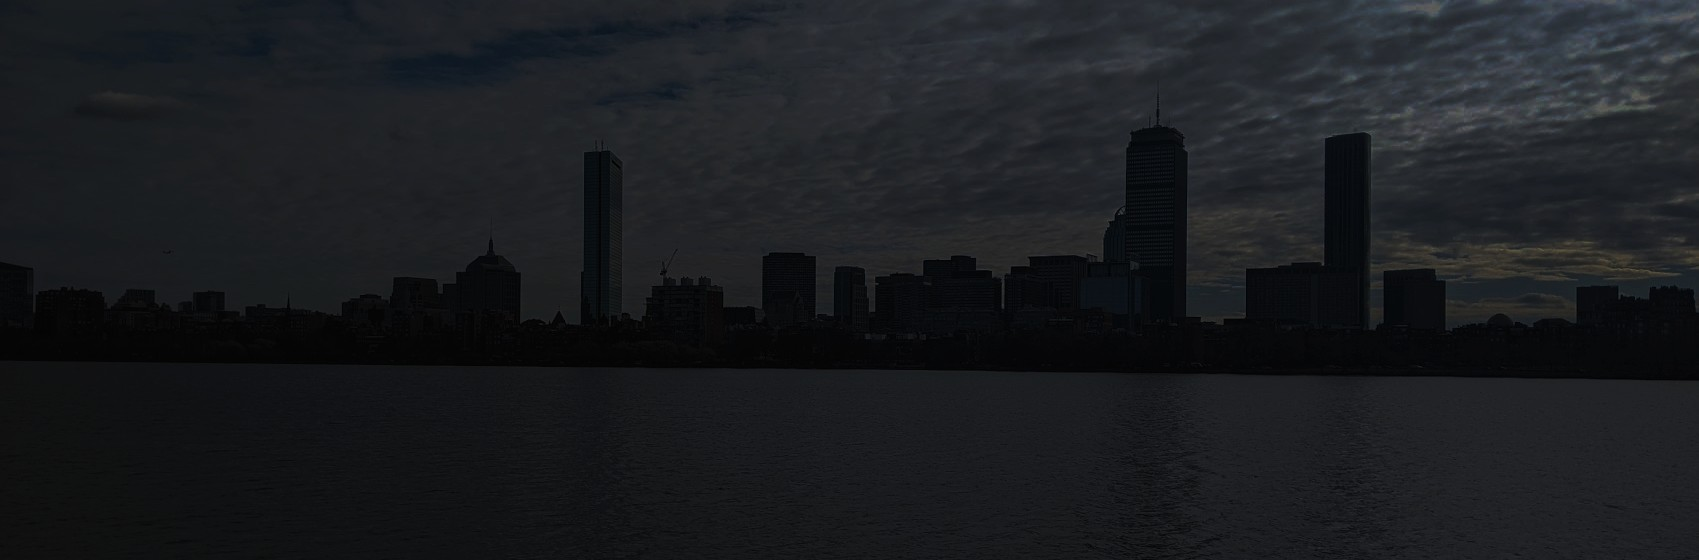
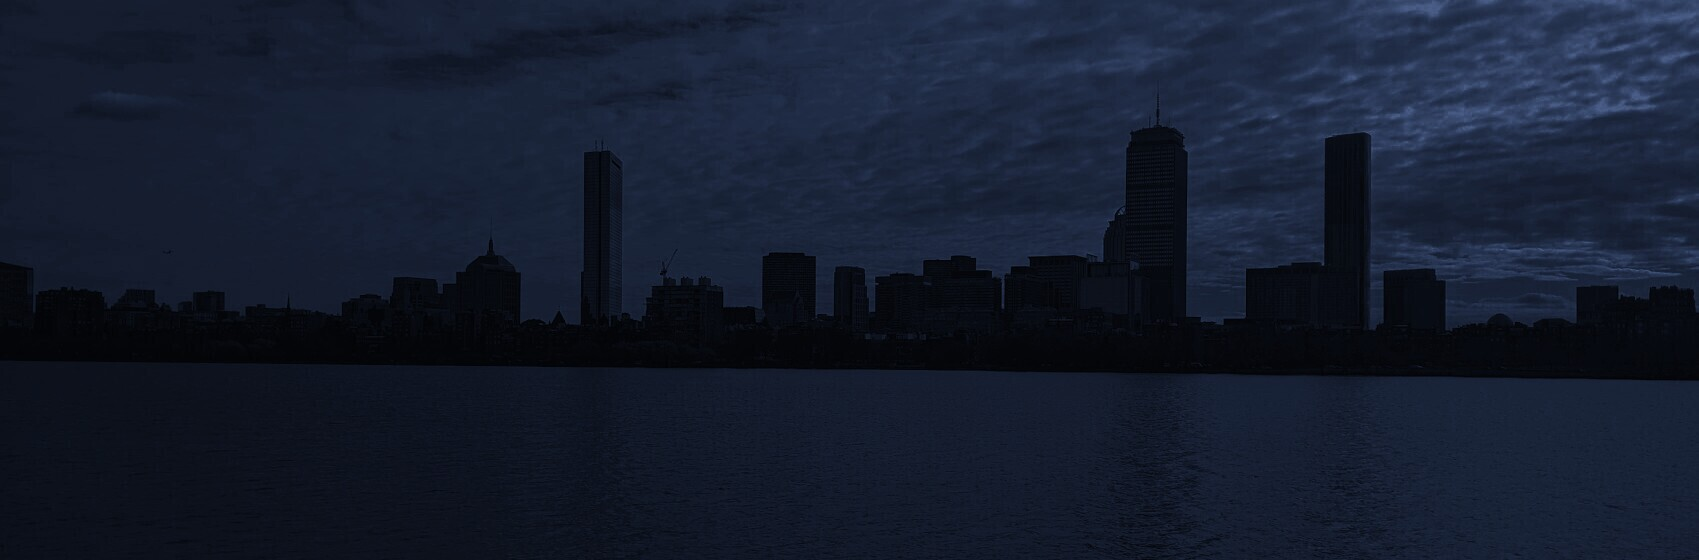
changed font colors to match color scheme

diff --git a/my-app/src/App.css b/my-app/src/App.css
@@ -31,7 +31,7 @@ body {
   overflow-x: hidden;
   position: relative;
   background-color: #121212 !important;
-  color: #fff !important;
+  color: #78c043 !important;
   font-family: 'Centra', sans-serif !important;
 }
 
@@ -57,7 +57,7 @@ transition: 0.32 ease-in-out;
 /*Background color of navbar as you scroll down*/
 nav.navbar.scrolled {
   padding: 0px 0;
-  background-color: #1f1f1f;
+  background-color: #192e5b;
 }
 
 /*Navbar Logo*/
@@ -68,7 +68,7 @@ nav.navbar a.navbar-brand {
 /*Customizing the navbar links at the top*/
 nav.navbar .navbar-nav .nav-link.navbar-link {
 font-weight: 400;
-color: #fff !important;
+color: #f7f7ff !important;
 letter-spacing: 0.8px;
 padding: 0 25px;
 font-size: 18px;
@@ -105,7 +105,7 @@ margin-left: 14px;
   align-items: center;
   justify-content: center;
   line-height: 1;
-  border: 1px solid #fff
+  border: 1px solid #f7f7ff
 }
 
 /*Social Media Icon Transformation*/
@@ -140,8 +140,8 @@ margin-left: 14px;
 /*For the Contact Email - Starting*/
 .navbar-text button {
   font-weight: 700;
-  color: #fff;
-  border: 1px solid #fff;
+  color: #f7f7ff;
+  border: 1px solid #f7f7ff;
   padding: 9px 17px;
   font-size: 18px;
   margin-left: 18px;
@@ -196,7 +196,7 @@ nav.navbar .navbar-toggler-icon {
   height: 17px;
   background-image: none;
   position: relative;
-  border-bottom: 2px solid #fff;
+  border-bottom: 2px solid #f7f7ff;
   transition: all 300ms linear;
   top: -2px;
 }
@@ -211,7 +211,7 @@ nav.navbar .navbar-toggler-icon:before {
   width: 24px;
   position: absolute;
   height: 2px;
-  background-color: #fff;
+  background-color: #f7f7ff;
   top: 0;
   left: 0;
   content: "";
@@ -248,7 +248,8 @@ nav.navbar .navbar-toggler[aria-expanded="true"] .navbar-toggler-icon:before{
 .banner {
   margin-top: 0;
   padding: 250px 0px 80px 0px;
-  background-image: url('./assets/img/Boston.jpg');
+  background-image: 
+                    url('./assets/img/Boston.jpg');
   background-position: top center;
   background-size: cover;
   background-repeat: no-repeat;
@@ -265,6 +266,7 @@ nav.navbar .navbar-toggler[aria-expanded="true"] .navbar-toggler-icon:before{
 }
 
 .banner h4 {
+  color: #577399;
   font-size: 25px;
   letter-spacing: 0.8px;
   line-height: 1;
@@ -273,7 +275,7 @@ nav.navbar .navbar-toggler[aria-expanded="true"] .navbar-toggler-icon:before{
 }
 
 .banner p {
-  color: #B8B8B8;
+  color: #f7f7ff;
   font-size: 18px;
   letter-spacing: 0.8px;
   line-height: 1.5em;
@@ -421,7 +423,7 @@ nav.navbar .navbar-toggler[aria-expanded="true"] .navbar-toggler-icon:before{
   background-color: transparent;
   border-radius: 0;
   padding: 17px 0;
-  color: #fff;
+  color: #bdd5ea;
   width: 100%;
   font-size: 17px;
   letter-spacing: 0.8px;

diff --git a/my-app/src/components/Banner.js b/my-app/src/components/Banner.js
@@ -15,7 +15,7 @@ return (
                     {/* <h4>Science Teacher</h4>
                     <h4>Sports Coach</h4> */}
 
-                    <p>As a software engineer who teaches middle school science, I firmly believe in lifelong learning and supporting my community. Whether it's coding, coaching, or parent-teacher conferences, I approach challenges with an empathetic lens: problem solve, reiterate, and adapt to support growth and effect change.</p>
+                    <p>As a software engineer who teaches middle school science, I firmly believe in lifelong learning and supporting my community. Whether it's coaching, coding, or parent-teacher conferences, I approach challenges with an empathetic lens: problem solve, reiterate, and adapt to support growth and effect change.</p>
                     <img src={DBoat}  id="DBoat" alt="Dragonboat"/>
                 </Col>
 

diff --git a/my-app/src/components/Projects.js b/my-app/src/components/Projects.js
@@ -15,7 +15,7 @@ const project1 =[
         // title: "Weather Forecast",
         // description: "HTML, CSS, Javascript, APIs",
         imgURL: Forecast,
-        URL: 'https://65bus.netlify.app'
+        URL: 'https://your-weather-forecast.surge.sh'
     }]
 
 const project2 =[
@@ -31,7 +31,7 @@ const project3 =[
         // title: "MBTA 65 Bus Tracker",
         // description: "React + Axios Calls",
         imgURL: The65Bus,
-        URL: 'https://your-weather-forecast.surge.sh'
+        URL: 'https://65bus.netlify.app'
     }]
 
 return (
